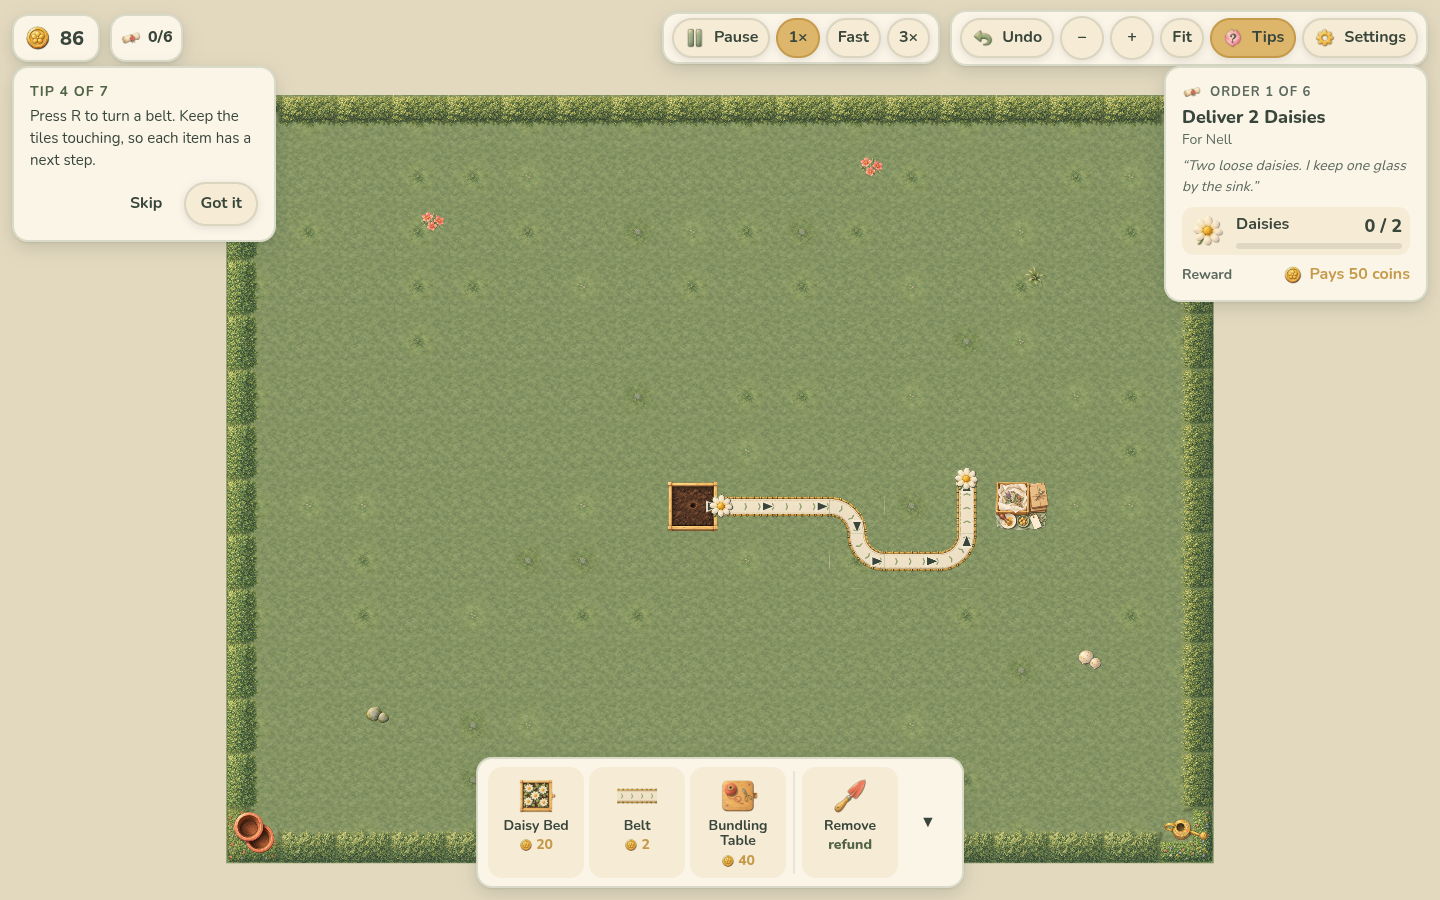
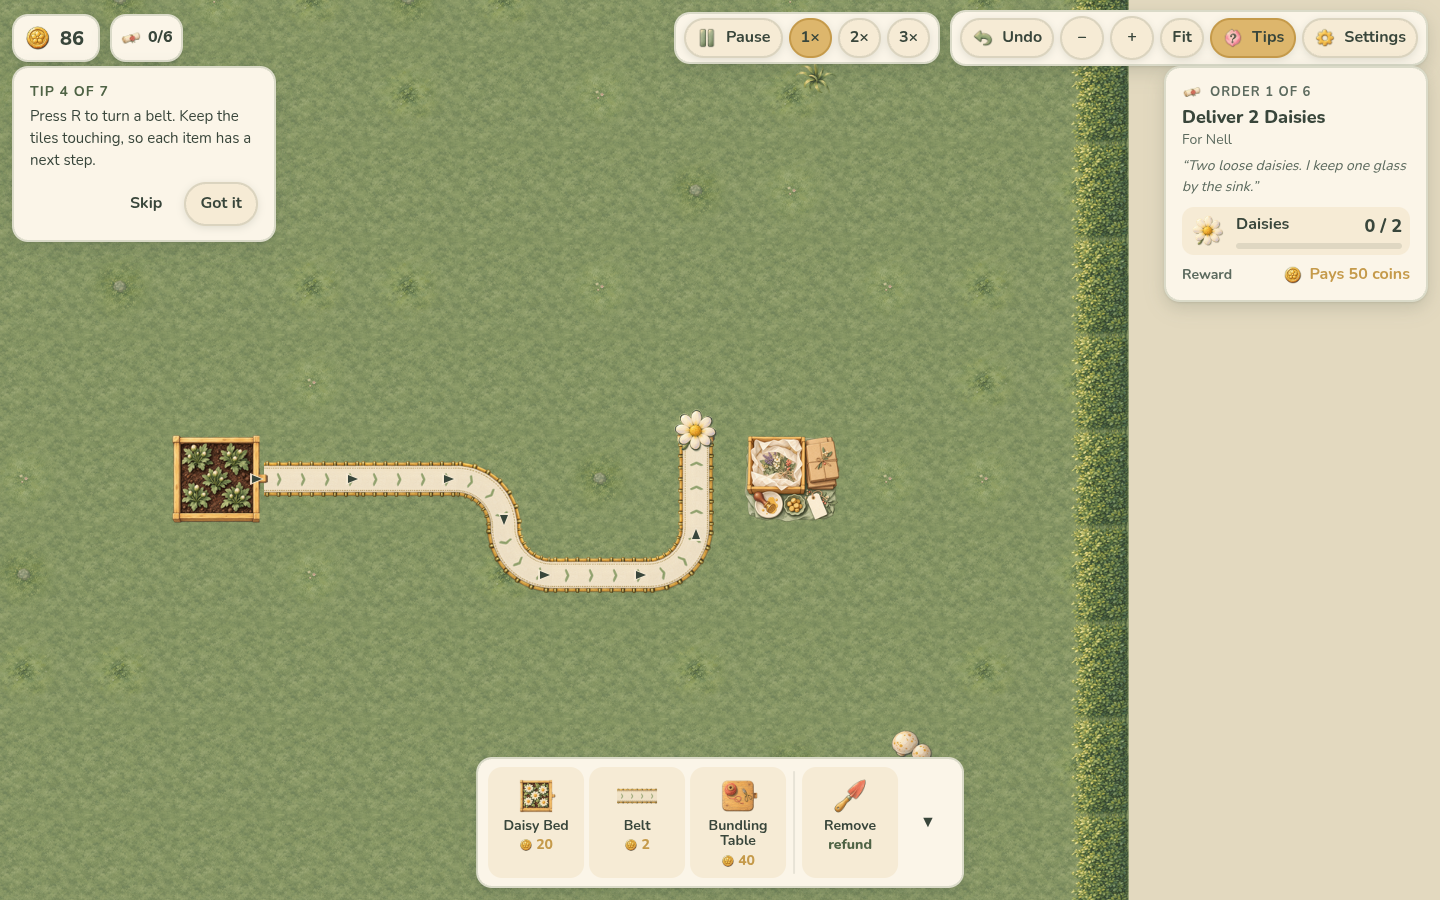
Default framing on the used yard, closed-field label, consistent speed labels
- Camera opens on the structures' bounding box plus margin (min 10x7 tiles,
  zoom capped), Fit/Home shows the whole yard, framing re-runs on resize
- Closed expansion field: one moss-tinted L with a twine outline and a single
  'Open Plot' label; no per-tile locked art
- Speed buttons read 1x/2x/3x with copy tooltips; narrower side cards on
  windows under 1150 px; 1024x640 screenshot
- Questions trimmed to the open ones; status updated

diff --git a/src/game/PetalScene.ts b/src/game/PetalScene.ts
@@ -12,6 +12,7 @@ import { COLORS, DEPTH, TILE } from './constants';
 import { DISC_SIZE, makeOverlayTextures } from './overlays';
 import { beltProgressT, itemPositionOnBelt, tileCenter } from './paths';
 import { SpriteRegistry } from './sprites';
+import { COPY, fmt } from '../ui/strings';
 
 interface StructureView {
   id: number;
@@ -36,6 +37,7 @@ export class PetalScene extends Phaser.Scene {
   private camCtl!: CameraController;
   private ground: Phaser.GameObjects.Image[] = [];
   private lockedGfx: Phaser.GameObjects.Graphics[] = [];
+  private lockedText: Phaser.GameObjects.Text[] = [];
   private groundKey = '';
   private views = new Map<number, StructureView>();
   private items = new Map<number, ItemView>();
@@ -78,7 +80,7 @@ export class PetalScene extends Phaser.Scene {
     makeOverlayTextures(this);
     this.camCtl = new CameraController(this);
     this.camCtl.setWorldSize(this.store.sim.world.cols, this.store.sim.world.rows);
-    this.recenter();
+    this.frameUsedArea();
 
     const mk = (key: string, depth: number) => this.add.image(0, 0, key).setDepth(depth).setVisible(false).setDisplaySize(TILE, TILE);
     this.ghostRing = mk('ring.valid', DEPTH.ghost);
@@ -111,7 +113,7 @@ export class PetalScene extends Phaser.Scene {
       .setDepth(DEPTH.fx);
 
     this.setupInput();
-    this.scale.on('resize', () => this.recenter());
+    this.scale.on('resize', () => this.applyFit(this.camCtl.reframe(this.store.ui.paletteOpen)));
     (window as unknown as { __cam?: unknown }).__cam = this.cameras.main;
     this.ready = true;
   }
@@ -136,6 +138,8 @@ export class PetalScene extends Phaser.Scene {
     this.ground = [];
     for (const g of this.lockedGfx) g.destroy();
     this.lockedGfx = [];
+    for (const t of this.lockedText) t.destroy();
+    this.lockedText = [];
     const W = world.cols;
     const H = world.rows;
     const seeded = (x: number, y: number) => {
@@ -170,14 +174,39 @@ export class PetalScene extends Phaser.Scene {
             put(`ground.grass.${r < 0.8 ? 0 : 1}`, x, y);
           }
         }
+        // The closed strip is the L outside the open plot (which sits at the origin).
         const g = this.add.graphics().setDepth(DEPTH.ground + 0.6);
+        const R = p.rect.x + p.rect.w;
+        const B = p.rect.y + p.rect.h;
+        const pts = [
+          { x: (world.cols + 1) * TILE, y: -TILE },
+          { x: R * TILE, y: -TILE },
+          { x: R * TILE, y: B * TILE },
+          { x: -TILE, y: B * TILE },
+          { x: -TILE, y: (world.rows + 1) * TILE },
+          { x: (world.cols + 1) * TILE, y: (world.rows + 1) * TILE },
+        ];
         g.fillStyle(COLORS.moss, 0.28);
-        // Tint only the closed strip (the open plot is a sub-rectangle at the origin).
-        g.fillRect(world.cols * TILE, p.rect.y * TILE, (p.rect.x + p.rect.w - world.cols) * TILE, p.rect.h * TILE);
-        g.fillRect(p.rect.x * TILE, world.rows * TILE, world.cols * TILE, (p.rect.y + p.rect.h - world.rows) * TILE);
+        g.fillPoints(pts, true);
         g.lineStyle(3, 0xc9a978, 0.9);
-        g.strokeRect(p.rect.x * TILE + 4, p.rect.y * TILE + 4, p.rect.w * TILE - 8, p.rect.h * TILE - 8);
+        g.strokePoints(pts, true);
         this.lockedGfx.push(g);
+        // One label for the whole closed field.
+        const lx = ((world.cols + 1 + R) / 2) * TILE;
+        const ly = (world.rows / 2) * TILE;
+        const label = this.add
+          .text(lx, ly, `${COPY.expansion.button}\n${fmt(COPY.expansion.confirmCost, { cost: p.cost })}`, {
+            fontFamily: 'Nunito, "Segoe UI", sans-serif',
+            fontSize: '18px',
+            fontStyle: '800',
+            color: '#39463b',
+            align: 'center',
+            backgroundColor: 'rgba(246,235,213,0.9)',
+            padding: { x: 12, y: 8 },
+          })
+          .setOrigin(0.5)
+          .setDepth(DEPTH.ground + 0.7);
+        this.lockedText.push(label);
       }
     }
     // Hedge ring (sits one tile outside the open area). The hedge art has transparent
@@ -732,9 +761,57 @@ export class PetalScene extends Phaser.Scene {
   }
 
   // ---- public controls used by the HUD -------------------------------------------------
-  recenter(): void {
-    const r = this.camCtl.fit(this.store.ui.paletteOpen);
+  private applyFit(r: { collapsePalette: boolean }): void {
     if (r.collapsePalette && this.store.ui.paletteOpen) this.store.setUi({ paletteOpen: false });
+  }
+
+  /** Fit the whole yard (Fit button / Home). */
+  recenter(): void {
+    this.applyFit(this.camCtl.fit(this.store.ui.paletteOpen));
+  }
+
+  /**
+   * Default framing: the structures' bounding box plus a 2-tile margin, never smaller than
+   * 10×7 tiles, pulled toward the Packing Station so the first chain fills the screen.
+   */
+  frameUsedArea(): void {
+    const w = this.store.sim.world;
+    let minX = Infinity;
+    let minY = Infinity;
+    let maxX = -Infinity;
+    let maxY = -Infinity;
+    for (const s of Object.values(w.structures)) {
+      minX = Math.min(minX, s.x);
+      minY = Math.min(minY, s.y);
+      maxX = Math.max(maxX, s.x);
+      maxY = Math.max(maxY, s.y);
+    }
+    if (!Number.isFinite(minX)) {
+      minX = maxX = Math.floor(w.cols / 2);
+      minY = maxY = Math.floor(w.rows / 2);
+    }
+    const margin = 2;
+    let x0 = minX - margin;
+    let y0 = minY - margin;
+    let x1 = maxX + margin + 1;
+    let y1 = maxY + margin + 1;
+    const minW = 10;
+    const minH = 7;
+    if (x1 - x0 < minW) {
+      const cx = (x0 + x1) / 2;
+      x0 = cx - minW / 2;
+      x1 = cx + minW / 2;
+    }
+    if (y1 - y0 < minH) {
+      const cy = (y0 + y1) / 2;
+      y0 = cy - minH / 2;
+      y1 = cy + minH / 2;
+    }
+    x0 = Math.max(-1, x0);
+    y0 = Math.max(-1, y0);
+    x1 = Math.min(w.cols + 1, x1);
+    y1 = Math.min(w.rows + 1, y1);
+    this.applyFit(this.camCtl.frameUsed({ x: x0, y: y0, w: x1 - x0, h: y1 - y0 }, this.store.ui.paletteOpen));
   }
 
   zoomBy(f: number): void {

diff --git a/src/game/camera.ts b/src/game/camera.ts
@@ -17,6 +17,9 @@ export class CameraController {
   padBottomCollapsed = 56;
   /** Width of the tip/inspector column (left) and order card (right). Reserved when the window is wide enough. */
   sidePanel = 276;
+  /** Last framing request, re-run on resize. */
+  lastMode: 'yard' | 'used' = 'used';
+  lastUsed: { x: number; y: number; w: number; h: number } | null = null;
 
   constructor(private scene: Phaser.Scene) {
     this.cam = scene.cameras.main;
@@ -33,10 +36,31 @@ export class CameraController {
    * Returns whether the palette should collapse.
    */
   fit(paletteOpen: boolean): { collapsePalette: boolean } {
+    this.lastMode = 'yard';
+    return this.fitRect(0, 0, this.worldW, this.worldH, paletteOpen, false);
+  }
+
+  /**
+   * Default framing: the part of the yard that is in use (structures plus a margin),
+   * so a first chain fills the screen instead of floating in empty lawn. Zoom is capped
+   * so tiles never exceed 96 px; the player can still Fit the whole yard.
+   */
+  frameUsed(used: { x: number; y: number; w: number; h: number }, paletteOpen: boolean): { collapsePalette: boolean } {
+    this.lastMode = 'used';
+    this.lastUsed = used;
+    return this.fitRect(used.x * TILE, used.y * TILE, used.w * TILE, used.h * TILE, paletteOpen, true);
+  }
+
+  reframe(paletteOpen: boolean): { collapsePalette: boolean } {
+    if (this.lastMode === 'used' && this.lastUsed) return this.frameUsed(this.lastUsed, paletteOpen);
+    return this.fit(paletteOpen);
+  }
+
+  private fitRect(rx: number, ry: number, rw: number, rh: number, paletteOpen: boolean, capZoom: boolean): { collapsePalette: boolean } {
     const vw = this.scene.scale.width;
     const vh = this.scene.scale.height;
-    const w = this.worldW + TILE * 0.2;
-    const h = this.worldH + TILE * 0.2;
+    const w = rw + TILE * 0.2;
+    const h = rh + TILE * 0.2;
     // Keep the garden out from under the side cards when there is room for 48 px tiles that way.
     const gutters = vw - 2 * this.sidePanel >= w * (MIN_DEFAULT_TILE / TILE) ? this.sidePanel : 0;
     const zoomFor = (padBottom: number) => Math.min((vw - 2 * gutters) / w, (vh - this.padTop - padBottom) / h);
@@ -48,9 +72,11 @@ export class CameraController {
       padBottom = this.padBottomCollapsed;
       zoom = zoomFor(padBottom);
     }
-    zoom = Phaser.Math.Clamp(zoom, FLOOR_TILE / TILE, this.maxZoom);
+    zoom = Phaser.Math.Clamp(zoom, FLOOR_TILE / TILE, capZoom ? 1.5 : this.maxZoom);
     this.cam.setZoom(zoom);
-    this.centerOnGarden(padBottom);
+    const offsetY = (this.padTop - padBottom) / 2 / zoom;
+    this.cam.centerOn(rx + rw / 2, ry + rh / 2 + offsetY);
+    this.clamp();
     return { collapsePalette: collapse };
   }
 

diff --git a/src/ui/styles.css b/src/ui/styles.css
@@ -279,3 +279,14 @@ button:focus-visible, [tabindex]:focus-visible, input:focus-visible, a:focus-vis
 .celebration .ctitle { font-weight: 800; font-size: 20px; }
 .celebration .cline { display: flex; align-items: center; gap: 6px; font-weight: 700; color: var(--honey-deep); }
 .celebration .cline.unlock { color: var(--moss-deep); }
+
+/* Small windows: narrower side cards so they cover less of the yard. */
+@media (max-width: 1150px) {
+  .orderpanel, .tutorial, .inspector { width: 232px; }
+  .orderpanel .note { display: none; }
+  .ptool { width: 84px; }
+}
+@media (max-width: 1050px) {
+  .orderpanel, .tutorial, .inspector { width: 212px; padding: 10px 12px; }
+  .topbar .group .btn span { display: none; }
+}

diff --git a/src/ui/App.tsx b/src/ui/App.tsx
@@ -41,6 +41,12 @@ export function App() {
     };
   }, []);
 
+  // Frame the used area whenever a game starts (new or continued).
+  const screen = ui.screen;
+  useEffect(() => {
+    if (screen === 'game') requestAnimationFrame(() => sceneRef.current?.frameUsedArea());
+  }, [screen]);
+
   useEffect(() => {
     const onKey = (e: KeyboardEvent) => {
       if (store.ui.screen !== 'game') return;

diff --git a/src/ui/TopBar.tsx b/src/ui/TopBar.tsx
@@ -53,7 +53,7 @@ export function TopBar({ onRecenter, onZoom }: { onRecenter: () => void; onZoom:
             aria-pressed={ui.speed === s && !ui.paused}
             data-testid={`speed-${s}`}
           >
-            {s === 1 ? '1×' : s === 2 ? COPY.hud.fast : '3×'}
+            {fmt(EXTRA.hud.speedN, { n: s })}
           </button>
         ))}
       </div>

diff --git a/producer/QUESTIONS.md b/producer/QUESTIONS.md
@@ -1,23 +1,13 @@
 # Questions from Claude
 
-Each has the default I am building with. None blocks progress. Answered ones can be deleted.
+Each has the default I am building with. None blocks progress. (1–6 and the number-row question were answered on Nov 1, 17:15; defaults kept.)
 
-1. **Removal policy conflict.** `docs/design/BALANCE.md` models "deletion is blocked while a structure holds an item"; `docs/design/SLICE_ARCHITECTURE_RISKS.md` asks for a basket. **Default: basket.** Items in a removed structure go to a visible basket in the build palette and can be dropped back on any empty belt. Say the word and I'll switch to blocking.
+1. **Strings copy.json doesn't have yet** live in `EXTRA` inside `src/ui/strings.ts` (about 60 short strings: zoom/fit buttons, "Order 1 of 6", "Received 12", the open-market line, the basket/expansion error lines, the stock-full block reason, the extra keyboard rows in the controls table, the "Open Plot · This costs 100 coins." field label). Happy to move them into copy.json under the same keys when you want to edit them.
 
-2. **Celebration pause length.** BALANCE.md says the completion toast pauses the factory "until the next order starts". **Default: a 3.2-second non-modal card during which the sim holds, then play resumes** (no click required, so no modal interruption). Order 6 opens the ending dialog, which holds until "Keep Building".
+2. **Copy vs. pre-placed station.** `tutorial.opening[place-packing]` tells the player to place a Packing Station, but BALANCE.md pre-places it. **Default: that tip is skipped**; the tips card shows 7 opening tips instead of 8.
 
-3. **Speed buttons.** The copy has Normal/Fast; the acceptance plan mentions a "very fast" speed. **Default: 1×, Fast (2×), 3× buttons; F cycles them.** Easy to drop to two.
+3. **Controls table.** copy.json's `controls` list has 11 rows; the build also has the accessibility doc's keys (arrows, Enter, Shift+R, X, Delete, B, P, F, = / -, Home, H). **Default: both lists are shown**, mine appended under the copy's rows.
 
-4. **Sandbox.** Infinite orders are out of scope. **Default: open market** (delivered goods sell for 2/3/8/12/30 coins). The panel uses `ending.sandbox` ("No further orders to pack.") plus one line of mine explaining the selling. Needs a copy line if you keep it.
+4. **`ground_locked.png` has a painted border on every tile**, which tiles into a grid. **Default: the closed field is plain lawn under a soft moss tint with one twine outline and one "Open Plot" label**, and the locked tile art is not used. If Allie's version is seamless (no edge frame), I'll switch back by deleting a few lines.
 
-5. **Packing Station position.** Pre-placed at tile (14, 7) counting from 1, on the east side of the 16×12 plot. Fine, or elsewhere?
-
-6. **Copy vs. pre-placed station.** `tutorial.opening[place-packing]` tells the player to place a Packing Station, but BALANCE.md pre-places it. **Default: that tip is skipped**; the tips card shows 7 opening tips instead of 8. Also `palette.buildings.packingStation` is never shown in the shelf.
-
-7. **Strings copy.json doesn't have yet** live in `EXTRA` inside `src/ui/strings.ts` (about 60 short strings: zoom/fit buttons, "Order 1 of 6", "Received 12", the open-market line, the basket/expansion error lines, stock-full block reason, the extra keyboard rows in the controls table, etc.). Happy to move them into copy.json under the same keys when you want to edit them.
-
-8. **Controls table.** copy.json's `controls` list has 11 rows; the build also has the accessibility doc's keys (arrows, Enter, Shift+R, X, Delete, B, P, F, = / -, Home, H). **Default: both lists are shown**, mine appended under the copy's rows.
-
-9. **`ground_locked.png` has a painted border on every tile**, which reads as a grid when tiled over the closed plot. **Default: the closed plot is drawn as plain lawn under a soft moss tint with one twine outline around the plot**, and the locked tile art is not used. If the art team can make a seamless version (no edge frame), I'll switch back by deleting three lines.
-
-10. **Number keys.** Not bound (the accessibility doc leaves the number row free). Speeds are buttons + F.
+5. **Default framing.** The game now opens on the used part of the yard (structures plus a 2-tile margin, at least 10×7 tiles, zoom capped at 1.5×). **Fit / Home** shows the whole yard. On small windows (1024 wide) the side cards still cover the yard's edge columns; the cards shrink below 1150 px and the first chain stays clear. Say if you'd rather the default be the whole yard.

diff --git a/producer/STATUS.md b/producer/STATUS.md
@@ -14,6 +14,14 @@
 - Autosave, Continue / New Game with confirmation, corrupted-save backup, schema v2 with a v1 migration.
 - Default zoom keeps tiles at least 48 px; at 1366×768 the garden sits between the tip card and the order card instead of under them; the fit re-runs on window resize (Steam-plan guardrail).
 
+## Round of Nov 1, 17:15 (answers + review)
+- Speed buttons now read 1×, 2×, 3× (tooltips use the copy's normal/fast lines).
+- Default framing is the used part of the yard (structures + margin, at least 10×7 tiles, zoom capped) so a first chain fills the screen; Fit / Home shows the whole yard; the framing re-runs on resize.
+- The closed expansion field east/south of the hedge is one soft moss-tinted lawn with a single twine outline and one "Open Plot · This costs 100 coins." label.
+- Side cards shrink below 1150 px wide; at 1024×640 they still cover the yard's outer columns (the first chain stays clear). Screenshot 12 shows it.
+- Art loads strictly by file name through the manifest with no size assumptions, so Allie's redesign drops in by name (docs/ART_LIST.md).
+- Pushed to GitHub main for the Vercel build.
+
 ## For the producer's notes
 - Visual review (16:47): default framing tightened and side cards clear the yard; toasts capped at 2 with merged refunds; blocked warning sits beside the building; status glyphs are ink-on-cream discs at a fixed screen size.
 - Steam guardrails (§3): all kept true; `src/app/shell.ts` holds the no-op hooks. No Electron/Steam code added.
